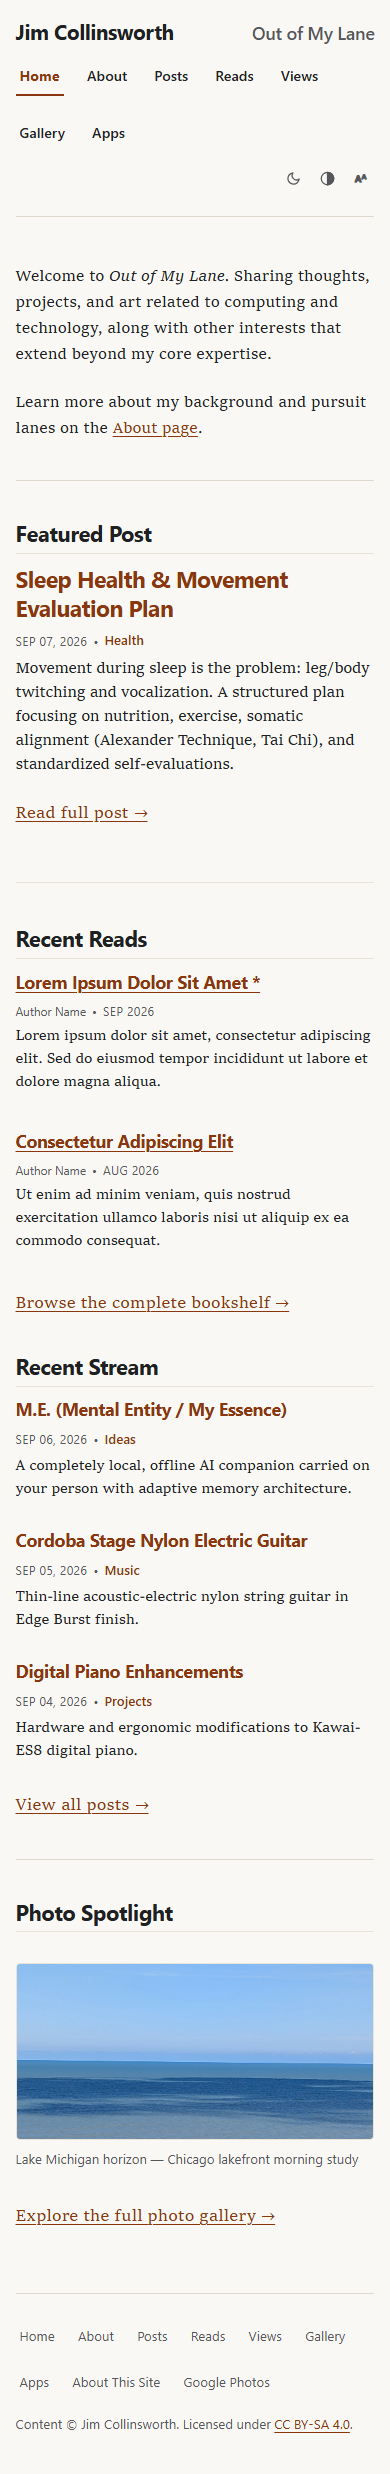
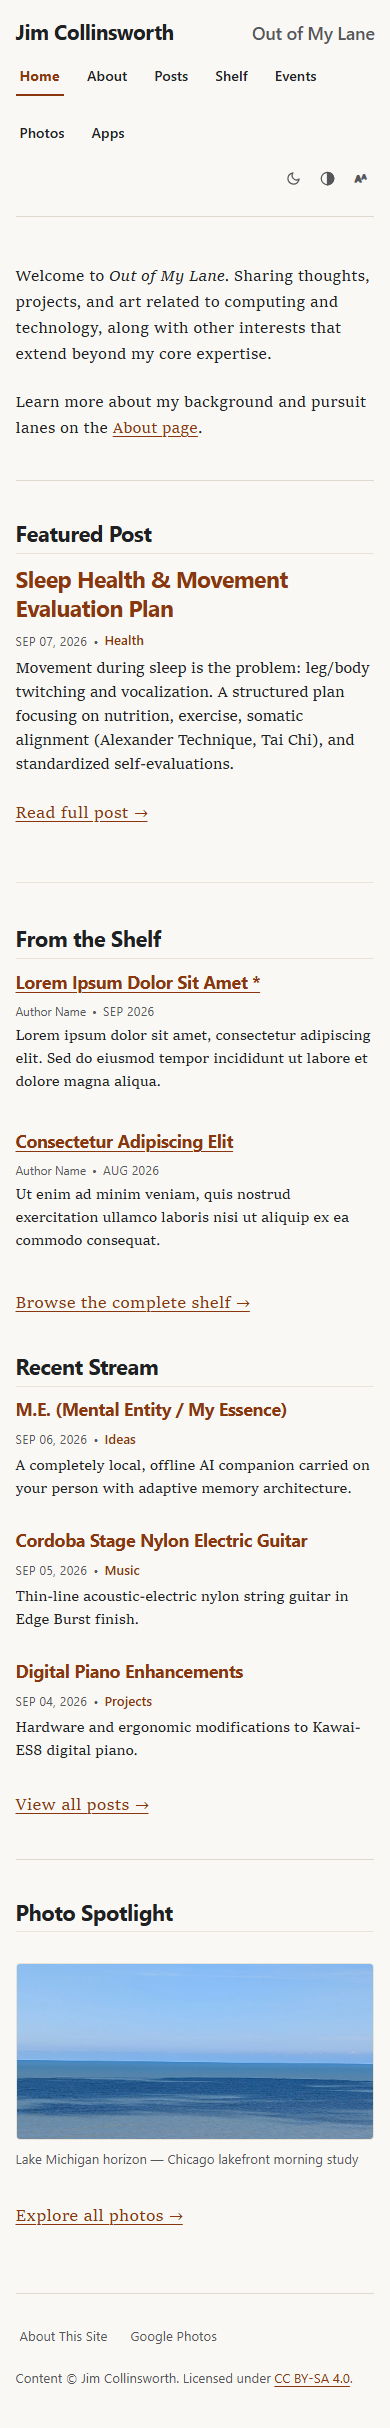
feat(contact): add contact page, update footer navigation, and update core governance docs (v0.5.7)

diff --git a/contact.html b/contact.html
@@ -3,10 +3,10 @@
 <head>
   <meta charset="UTF-8">
   <meta name="viewport" content="width=device-width, initial-scale=1.0">
-  <title>Modern Wing Encounters: Renzo Piano's Light & Mid-Century Linearity &mdash; Jim Collinsworth</title>
-  <link rel="stylesheet" href="../theme/css/style.css">
-  <link rel="icon" href="../favicon.svg" type="image/svg+xml">
-  <link rel="alternate icon" href="../favicon.ico" type="image/x-icon">
+  <title>Contact &mdash; Jim Collinsworth</title>
+  <link rel="stylesheet" href="./theme/css/style.css">
+  <link rel="icon" href="./favicon.svg" type="image/svg+xml">
+  <link rel="alternate icon" href="./favicon.ico" type="image/x-icon">
 </head>
 <body>
   <a href="#main-content" class="skip-link">Skip to main content</a>
@@ -16,18 +16,18 @@
   <div class="container">
     <header class="site-header" role="banner">
       <div class="site-branding">
-        <div class="site-title"><a href="../index.html">Jim Collinsworth</a></div>
+        <div class="site-title"><a href="./index.html">Jim Collinsworth</a></div>
         <div class="site-tagline">Out of My Lane</div>
       </div>
       <div class="site-nav-row">
         <nav class="site-nav" aria-label="Main Navigation">
-          <a href="../index.html">Home</a>
-          <a href="../about.html">About</a>
-          <a href="../posts.html" class="active" aria-current="page">Posts</a>
-          <a href="../shelf.html">Shelf</a>
-          <a href="../events.html">Events</a>
-          <a href="../photos.html">Photos</a>
-          <a href="../apps.html">Apps</a>
+          <a href="./index.html">Home</a>
+          <a href="./about.html">About</a>
+          <a href="./posts.html">Posts</a>
+          <a href="./shelf.html">Shelf</a>
+          <a href="./events.html">Events</a>
+          <a href="./photos.html">Photos</a>
+          <a href="./apps.html">Apps</a>
         </nav>
         <div class="site-controls" role="group" aria-label="Display and accessibility preferences">
           <label for="theme-toggle" class="control-btn" title="Toggle theme (Light / Dark)" aria-label="Toggle theme (Light / Dark)">
@@ -66,55 +66,34 @@
     </header>
 
     <main id="main-content" tabindex="-1">
-<div class="back-nav">
-  <a href="../posts.html">&larr; Back to Posts</a>
-</div>
-
-<article class="post">
-  <header class="post-header-full">
-    <h1 class="post-title">Modern Wing Encounters: Renzo Piano's Light & Mid-Century Linearity</h1>
-    <div class="meta">
-      <time datetime="2026-08-14">August 14, 2026</time>
-      &bull; <a href="../lanes/art.html" class="post-lane">Art</a>
-    </div>
-  </header>
-
-  <div class="post-content">
-    <div class="page-intro">
+<article class="page-body">
+  <div class="page-intro">
   <p>
-    An afternoon study inside the Modern Wing at the Art Institute of Chicago. The interplay between Renzo Piano’s double-cantilevered "flying carpet" roof screen and the sculptural surfaces below offers a masterclass in daylight modulation.
+    <strong>Contact &amp; Correspondence</strong> &mdash; Reach out with thoughts, collaborations, or questions regarding any of the explorations across <em>Out of My Lane</em>.
   </p>
 </div>
 
-<h2>The Flying Carpet: Daylighting as Material</h2>
-<p>Visiting the Modern Wing on an overcast afternoon reveals something direct sunlight obscures: the ceiling louvers diffuse northern lake light into a matte, shadowless wash. In contemporary exhibition spaces, artificial fixtures often dominate with high-CRI halogen pin-spots that create dramatic hot spots. Piano’s design does the inverse—it prioritizes ambient sky coherence over dramatic pin-lighting.</p>
-<figure>
-  <img src="../images/sky-lakefront.jpg" alt="Lakefront ambient diffused daylight" loading="lazy">
-  <figcaption>Diffused ambient northern sky illumination across the third-floor galleries.</figcaption>
-</figure>
-
-<h2>Spatial Rhythm &amp; Movement</h2>
-<p>The gallery sequencing moves visitors from dense, intimate alcoves into broad, double-height volumes overlooking Millennium Park. This contrast resets the eye. When viewing large-scale abstract expressionist canvases or mid-century bronze sculptures, the eye requires breathing room between intense color fields.</p>
-<figure>
-  <img src="../images/sky-formation.jpg" alt="Structural framing and geometric perspective" loading="lazy">
-  <figcaption>Linear steel members and clear glazing frame exterior tree canopies against white limestone.</figcaption>
-</figure>
-
-<h3>Curatorial Observations</h3>
-<ol>
-<li><strong>Pedestal Elevation</strong>: Sculptural pieces are mounted at true sightlines without reflective vitrines, allowing full 360-degree inspection of patinas and chisel marks.</li>
-<li><strong>Acoustic Dampening</strong>: Despite high ceilings and terrazzo flooring, acoustic absorption behind wall fabric prevents the echoing flutter common in monumental galleries.</li>
-<li><strong>Pacing</strong>: Benches are positioned with sightlines aligned toward architectural axes rather than crowded directly in front of major canvases.</li>
-</ol>
-  </div>
+<h2>Direct Contact</h2>
+<ul>
+<li><strong>Email</strong>: <a href="mailto:jimcollinsworth@gmail.com">jimcollinsworth@gmail.com</a></li>
+<li><strong>Source &amp; Discussions</strong>: <a href="https://github.com/jimcollinsworth">github.com/jimcollinsworth</a></li>
+<li><strong>Photo Archive</strong>: <a href="https://photos.app.goo.gl/yGTTSd3hnw1pqCPo8">Google Photos Album</a></li>
+</ul>
+<hr>
+<h2>Topics of Mutual Interest</h2>
+<p>Feel free to connect on topics relating to:
+- <strong>Software &amp; AI</strong>: Agentic pair programming workflows, local/offline LLMs, architecture, static site tooling.
+- <strong>Music &amp; Acoustic Physics</strong>: Guitar lutherie and setups, digital-acoustic hybrid keyboards, resonance modeling.
+- <strong>Somatic Movement &amp; Health</strong>: Alexander Technique, Tai Chi, sleep posture and nocturnal motor observation.
+- <strong>Making &amp; Craft</strong>: Hand-carved tool handles, ergonomic woodwork, custom knives.</p>
 </article>
     </main>
 
     <footer class="site-footer" role="contentinfo">
       <nav class="footer-nav" aria-label="Footer Navigation">
-        <a href="../about-this-site.html">About Site</a>
-        <a href="../prompt-history.html">Dev Prompts</a>
-        <a href="../contact.html">Contact</a>
+        <a href="./about-this-site.html">About Site</a>
+        <a href="./prompt-history.html">Dev Prompts</a>
+        <a href="./contact.html">Contact</a>
         <a href="https://photos.app.goo.gl/yGTTSd3hnw1pqCPo8" target="_blank" rel="noopener">Google Photos <span class="sr-only">(opens external photo album in new tab)</span></a>
       </nav>
       <div>

diff --git a/about-this-site.html b/about-this-site.html
@@ -86,9 +86,9 @@
   <div class="dashboard-card" style="border: 1px solid var(--border-color); padding: 1rem; border-radius: 4px;">
     <div style="font-size: 0.8rem; text-transform: uppercase; letter-spacing: 0.05em; color: var(--text-muted);">Site Version &amp; Releases</div>
     <div style="font-size: 1.2rem; font-weight: 600; color: var(--accent); margin-top: 0.4rem;">
-      <a href="https://github.com/jimcollinsworth/jimcollinsworth.github.io/releases" target="_blank" rel="noopener">v0.5.6.02 &bull; Release Notes &rarr;</a>
+      <a href="https://github.com/jimcollinsworth/jimcollinsworth.github.io/releases" target="_blank" rel="noopener">v0.5.7 &bull; Release Notes &rarr;</a>
     </div>
-    <div style="font-size: 0.85rem; color: var(--text-muted); margin-top: 0.25rem;">Full historical release notes v0.1 &ndash; v0.5.6.02</div>
+    <div style="font-size: 0.85rem; color: var(--text-muted); margin-top: 0.25rem;">Full historical release notes v0.1 &ndash; v0.5.7</div>
   </div>
 
   <div class="dashboard-card" style="border: 1px solid var(--border-color); padding: 1rem; border-radius: 4px;">
@@ -162,7 +162,9 @@
 
     <footer class="site-footer" role="contentinfo">
       <nav class="footer-nav" aria-label="Footer Navigation">
-        <a href="./about-this-site.html">About This Site</a>
+        <a href="./about-this-site.html">About Site</a>
+        <a href="./prompt-history.html">Dev Prompts</a>
+        <a href="./contact.html">Contact</a>
         <a href="https://photos.app.goo.gl/yGTTSd3hnw1pqCPo8" target="_blank" rel="noopener">Google Photos <span class="sr-only">(opens external photo album in new tab)</span></a>
       </nav>
       <div>

diff --git a/theme/templates/base.html b/theme/templates/base.html
@@ -71,7 +71,9 @@
 
     <footer class="site-footer" role="contentinfo">
       <nav class="footer-nav" aria-label="Footer Navigation">
-        <a href="{{ SITEURL }}/about-this-site.html">About This Site</a>
+        <a href="{{ SITEURL }}/about-this-site.html">About Site</a>
+        <a href="{{ SITEURL }}/prompt-history.html">Dev Prompts</a>
+        <a href="{{ SITEURL }}/contact.html">Contact</a>
         <a href="https://photos.app.goo.gl/yGTTSd3hnw1pqCPo8" target="_blank" rel="noopener">Google Photos <span class="sr-only">(opens external photo album in new tab)</span></a>
       </nav>
       <div>

diff --git a/posts/sleep-movement-evaluation-plan.html b/posts/sleep-movement-evaluation-plan.html
@@ -100,7 +100,9 @@
 
     <footer class="site-footer" role="contentinfo">
       <nav class="footer-nav" aria-label="Footer Navigation">
-        <a href="../about-this-site.html">About This Site</a>
+        <a href="../about-this-site.html">About Site</a>
+        <a href="../prompt-history.html">Dev Prompts</a>
+        <a href="../contact.html">Contact</a>
         <a href="https://photos.app.goo.gl/yGTTSd3hnw1pqCPo8" target="_blank" rel="noopener">Google Photos <span class="sr-only">(opens external photo album in new tab)</span></a>
       </nav>
       <div>

diff --git a/posts/cordoba-stage-guitar.html b/posts/cordoba-stage-guitar.html
@@ -87,7 +87,9 @@
 
     <footer class="site-footer" role="contentinfo">
       <nav class="footer-nav" aria-label="Footer Navigation">
-        <a href="../about-this-site.html">About This Site</a>
+        <a href="../about-this-site.html">About Site</a>
+        <a href="../prompt-history.html">Dev Prompts</a>
+        <a href="../contact.html">Contact</a>
         <a href="https://photos.app.goo.gl/yGTTSd3hnw1pqCPo8" target="_blank" rel="noopener">Google Photos <span class="sr-only">(opens external photo album in new tab)</span></a>
       </nav>
       <div>

diff --git a/posts/digital-piano-enhancements.html b/posts/digital-piano-enhancements.html
@@ -87,7 +87,9 @@
 
     <footer class="site-footer" role="contentinfo">
       <nav class="footer-nav" aria-label="Footer Navigation">
-        <a href="../about-this-site.html">About This Site</a>
+        <a href="../about-this-site.html">About Site</a>
+        <a href="../prompt-history.html">Dev Prompts</a>
+        <a href="../contact.html">Contact</a>
         <a href="https://photos.app.goo.gl/yGTTSd3hnw1pqCPo8" target="_blank" rel="noopener">Google Photos <span class="sr-only">(opens external photo album in new tab)</span></a>
       </nav>
       <div>

diff --git a/posts/m-e-offline-ai-companion.html b/posts/m-e-offline-ai-companion.html
@@ -87,7 +87,9 @@
 
     <footer class="site-footer" role="contentinfo">
       <nav class="footer-nav" aria-label="Footer Navigation">
-        <a href="../about-this-site.html">About This Site</a>
+        <a href="../about-this-site.html">About Site</a>
+        <a href="../prompt-history.html">Dev Prompts</a>
+        <a href="../contact.html">Contact</a>
         <a href="https://photos.app.goo.gl/yGTTSd3hnw1pqCPo8" target="_blank" rel="noopener">Google Photos <span class="sr-only">(opens external photo album in new tab)</span></a>
       </nav>
       <div>

diff --git a/posts/ulu-knife-handle.html b/posts/ulu-knife-handle.html
@@ -87,7 +87,9 @@
 
     <footer class="site-footer" role="contentinfo">
       <nav class="footer-nav" aria-label="Footer Navigation">
-        <a href="../about-this-site.html">About This Site</a>
+        <a href="../about-this-site.html">About Site</a>
+        <a href="../prompt-history.html">Dev Prompts</a>
+        <a href="../contact.html">Contact</a>
         <a href="https://photos.app.goo.gl/yGTTSd3hnw1pqCPo8" target="_blank" rel="noopener">Google Photos <span class="sr-only">(opens external photo album in new tab)</span></a>
       </nav>
       <div>

diff --git a/about.html b/about.html
@@ -108,7 +108,9 @@
 
     <footer class="site-footer" role="contentinfo">
       <nav class="footer-nav" aria-label="Footer Navigation">
-        <a href="./about-this-site.html">About This Site</a>
+        <a href="./about-this-site.html">About Site</a>
+        <a href="./prompt-history.html">Dev Prompts</a>
+        <a href="./contact.html">Contact</a>
         <a href="https://photos.app.goo.gl/yGTTSd3hnw1pqCPo8" target="_blank" rel="noopener">Google Photos <span class="sr-only">(opens external photo album in new tab)</span></a>
       </nav>
       <div>

diff --git a/apps.html b/apps.html
@@ -159,7 +159,9 @@
 
     <footer class="site-footer" role="contentinfo">
       <nav class="footer-nav" aria-label="Footer Navigation">
-        <a href="./about-this-site.html">About This Site</a>
+        <a href="./about-this-site.html">About Site</a>
+        <a href="./prompt-history.html">Dev Prompts</a>
+        <a href="./contact.html">Contact</a>
         <a href="https://photos.app.goo.gl/yGTTSd3hnw1pqCPo8" target="_blank" rel="noopener">Google Photos <span class="sr-only">(opens external photo album in new tab)</span></a>
       </nav>
       <div>

diff --git a/events.html b/events.html
@@ -140,7 +140,9 @@
 
     <footer class="site-footer" role="contentinfo">
       <nav class="footer-nav" aria-label="Footer Navigation">
-        <a href="./about-this-site.html">About This Site</a>
+        <a href="./about-this-site.html">About Site</a>
+        <a href="./prompt-history.html">Dev Prompts</a>
+        <a href="./contact.html">Contact</a>
         <a href="https://photos.app.goo.gl/yGTTSd3hnw1pqCPo8" target="_blank" rel="noopener">Google Photos <span class="sr-only">(opens external photo album in new tab)</span></a>
       </nav>
       <div>

diff --git a/index.html b/index.html
@@ -207,7 +207,9 @@
 
     <footer class="site-footer" role="contentinfo">
       <nav class="footer-nav" aria-label="Footer Navigation">
-        <a href="./about-this-site.html">About This Site</a>
+        <a href="./about-this-site.html">About Site</a>
+        <a href="./prompt-history.html">Dev Prompts</a>
+        <a href="./contact.html">Contact</a>
         <a href="https://photos.app.goo.gl/yGTTSd3hnw1pqCPo8" target="_blank" rel="noopener">Google Photos <span class="sr-only">(opens external photo album in new tab)</span></a>
       </nav>
       <div>
